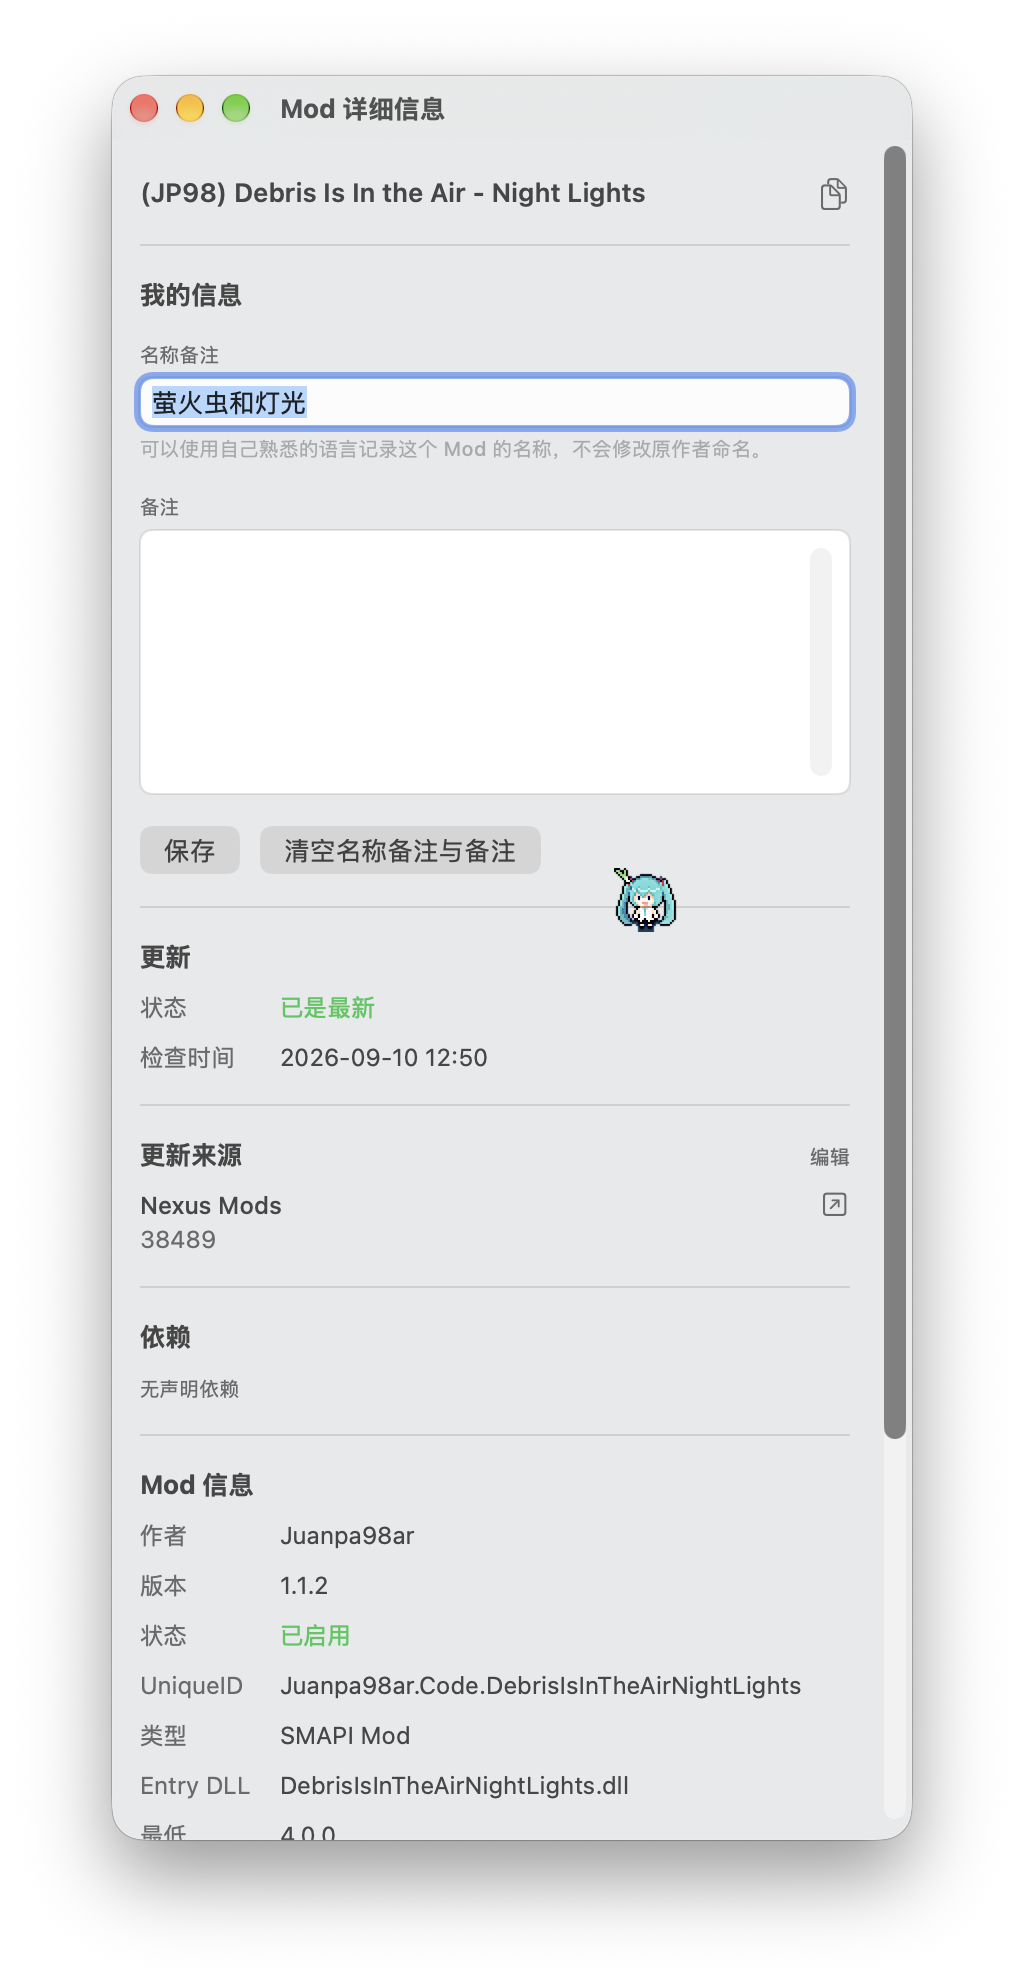
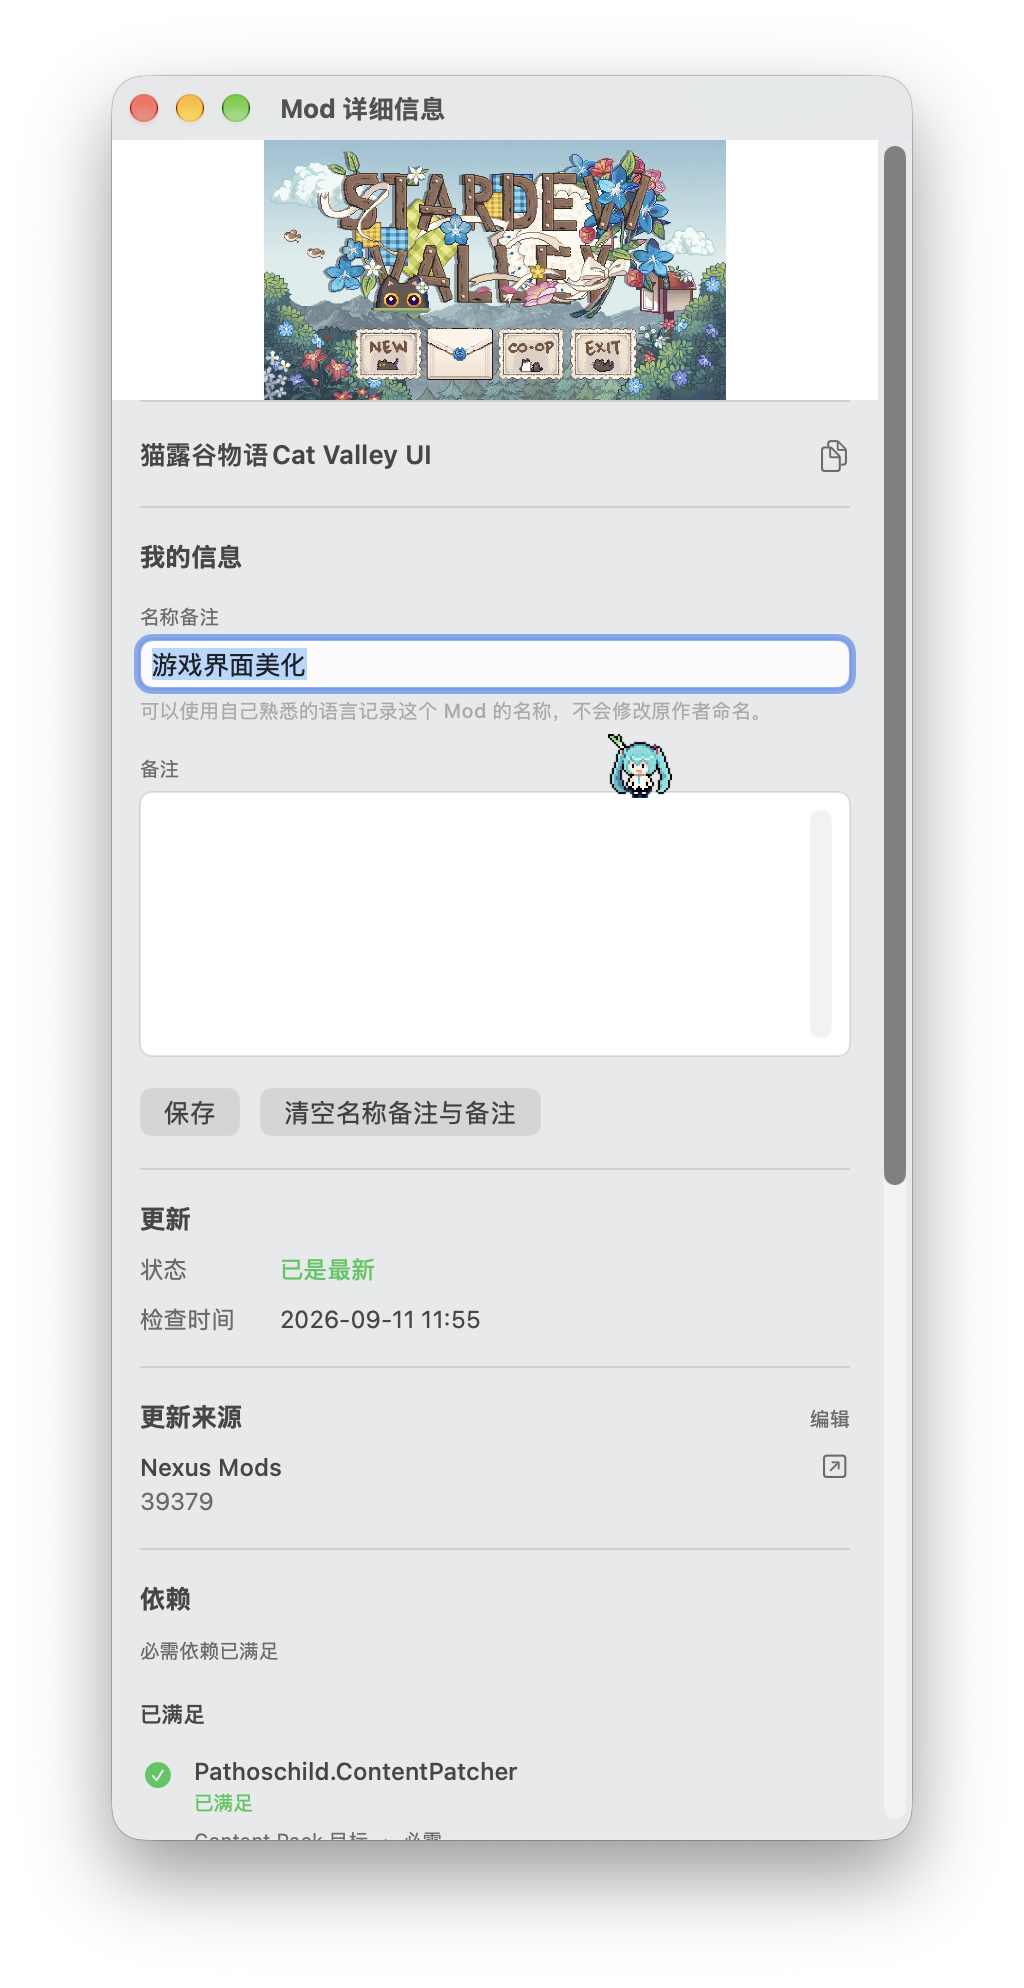
docs: prepare v1.1.0 README feature updates

diff --git a/README.md b/README.md
@@ -52,7 +52,7 @@ SVMM 重点关注：
 - **中文友好与可本地化**：简体中文优先维护，同时提供 English；名称备注可以把难以记忆或不熟悉语言的 Mod 名称转换为自己易理解的本地备注。
 - **原生 macOS 体验**：Sidebar、Toolbar、菜单、窗口、快捷键，以及与 Finder 使用习惯相匹配的交互。
 - **本地优先（Local-first）**：核心 Mod 管理数据保存在用户自己的 Mac 上。
-- **实用组织能力**：名称备注、分类、配置方案、扫描诊断、依赖与更新流程集中在一个桌面应用中。
+- **实用组织与维护能力**：名称备注、分类、配置方案、Manifest 编辑、扫描诊断、依赖与更新流程集中在一个桌面应用中。
 - **保守的文件事务**：受支持的更新与依赖安装会进行结构与身份校验，并尽可能执行备份、配置保留与失败回滚。
 - **单一跨版本代码库**：当前正式版本以 macOS 15.0 为最低部署目标，并在较新 macOS 版本继续使用适合的新系统能力。
 
@@ -105,14 +105,37 @@ SVMM 重点关注：
 - 只属于 SVMM 的本地管理数据；
 - 不会修改 Mod 作者原始名称；
 - 不会改写 `manifest.json`；
-- 可用于 Mod 库与详情等界面中的辅助识别；
+- 可用于 Mod 库与详细信息面板中的辅助识别；
 - 可以和普通备注一起导入、导出及备份。
 
 <p align="center">
-  <img src="docs/images/zh-CN/mod-name-note.png" alt="Mod 名称备注" width="72%">
+  <img src="docs/images/zh-CN/mod-name-note.png" alt="Mod 名称备注与详细信息面板" width="52%">
 </p>
 
-<p align="center"><sub>名称备注 —— 用自己熟悉的语言记录 Mod 名称，同时保留作者原始名称与 Unique ID。</sub></p>
+<p align="center"><sub>名称备注与详细信息面板 —— 用自己熟悉的语言记录 Mod 名称，同时保留作者原始名称，并集中查看缩略图、更新来源与依赖状态。</sub></p>
+
+### Manifest 编辑：在应用内结构化修改 Mod 元数据
+
+部分第三方 Mod 的 `manifest.json` 可能存在版本号、Unique ID、更新来源或依赖声明与实际发布内容不一致的情况。SVMM 提供内置 Manifest Editor，可以直接从 Mod 库或分类页面打开当前 Mod 的 `manifest.json`，以结构化表单进行修改。
+
+当前编辑器支持：
+
+- 修改 `Name`、`Author`、`Version`、`UniqueID` 与 `Description`；
+- 修改 `EntryDll`、`MinimumApiVersion` 与 `MinimumGameVersion`；
+- 编辑 `UpdateKeys`；
+- 添加、删除或修改 `Dependencies`；
+- 编辑 `ContentPackFor`；
+- 在**结构化编辑**与**原始 JSON**之间切换；
+- 保存前重新验证 JSON / Manifest 结构，保存后自动重新扫描 Mod；
+- 结构化修改基于完整 JSON 对象写回，尽量保留与本次修改无关的未知字段。
+
+<p align="center">
+  <img src="docs/images/zh-CN/manifest-editor.png" alt="SVMM Manifest Editor 结构化编辑" width="92%">
+</p>
+
+<p align="center"><sub>Manifest Editor —— 常用字段可以直接以结构化表单修改；需要时也可以切换到原始 JSON。</sub></p>
+
+> 与“名称备注”和“用户更新来源覆盖”不同，Manifest Editor 会直接修改 Mod 自己的 `manifest.json`。
 
 ### 分类
 
